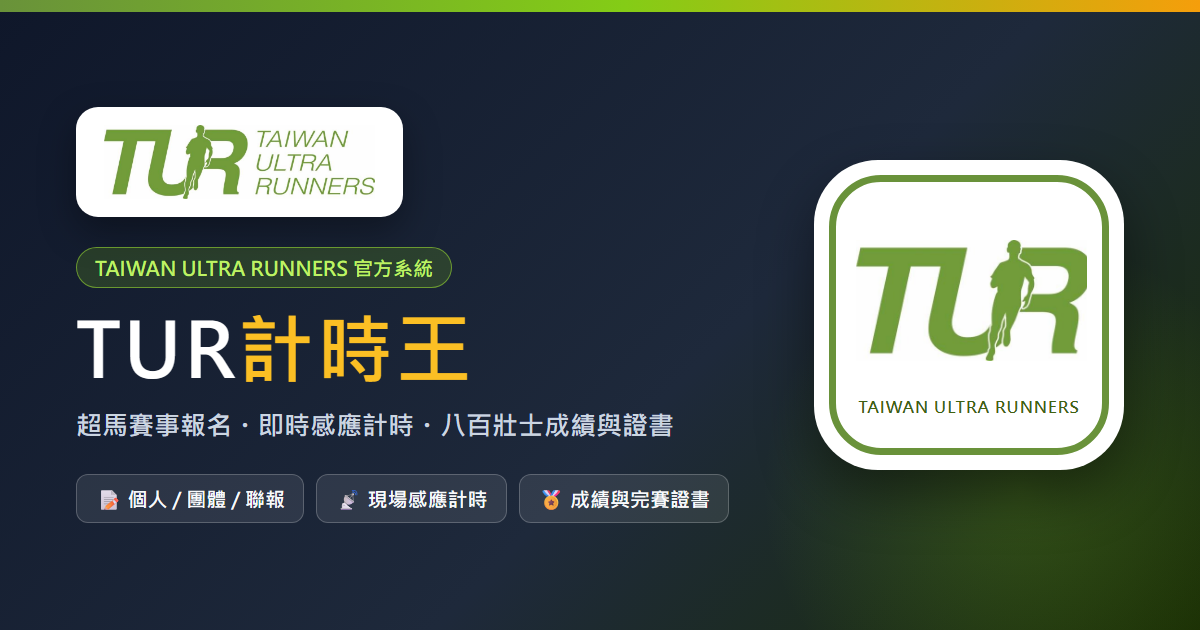
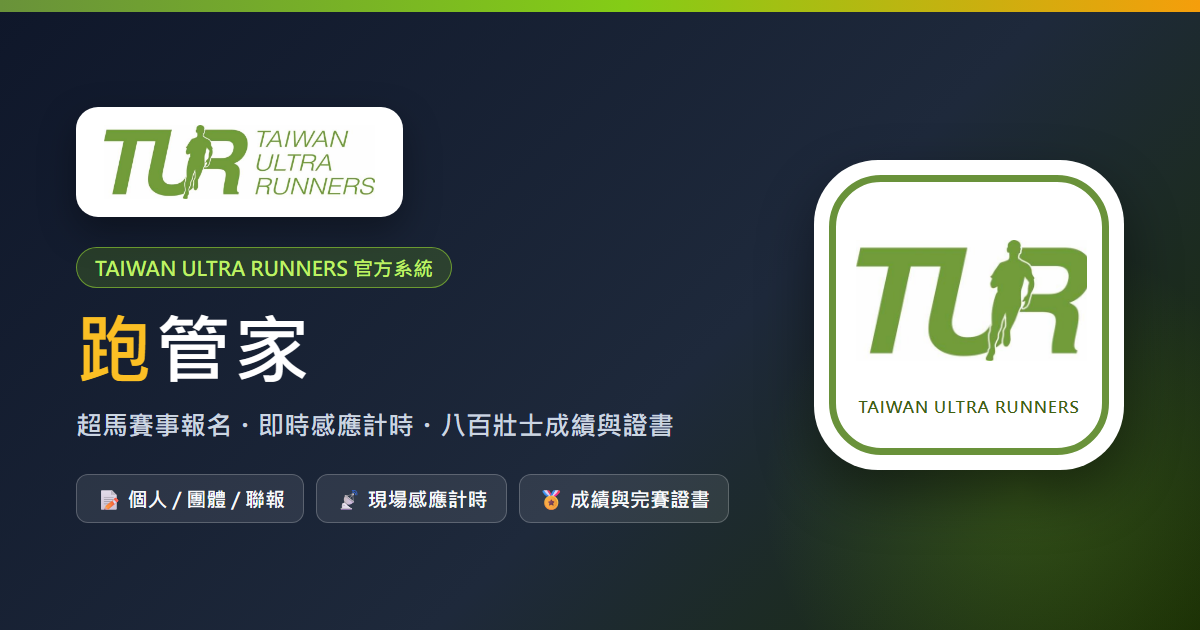
Add files via upload

Changed region(s): [[0.0617, 0.4825, 0.4008, 0.6032]]

diff --git a/public.html b/public.html
@@ -3,9 +3,9 @@
 <head>
   <meta charset="UTF-8" />
   <meta name="viewport" content="width=device-width, initial-scale=1.0" />
-  <title>TUR計時王｜公開成績查詢・八百壯士英雄榜・完賽證書</title>
+  <title>跑管家｜公開成績查詢・八百壯士英雄榜・完賽證書</title>
   <!-- PWA / 手機主畫面 App 圖示與全螢幕模式 -->
-  <link rel="manifest" href="manifest.webmanifest?v=5.21" />
+  <link rel="manifest" href="manifest.webmanifest?v=5.22" />
   <link rel="icon" type="image/png" sizes="192x192" href="assets/icon-192.png" />
   <link rel="icon" type="image/png" sizes="512x512" href="assets/icon-512.png" />
   <link rel="apple-touch-icon" sizes="180x180" href="assets/icon-180.png" />
@@ -13,12 +13,12 @@
   <meta name="mobile-web-app-capable" content="yes" />
   <meta name="apple-mobile-web-app-capable" content="yes" />
   <meta name="apple-mobile-web-app-status-bar-style" content="black-translucent" />
-  <meta name="apple-mobile-web-app-title" content="TUR計時王" />
-  <meta name="application-name" content="TUR計時王" />
+  <meta name="apple-mobile-web-app-title" content="跑管家" />
+  <meta name="application-name" content="跑管家" />
   <!-- LINE / Facebook 分享卡片預覽 -->
   <meta property="og:type" content="website" />
-  <meta property="og:site_name" content="TUR計時王" />
-  <meta property="og:title" content="TUR計時王｜公開成績查詢・八百壯士英雄榜・完賽證書" />
+  <meta property="og:site_name" content="跑管家" />
+  <meta property="og:title" content="跑管家｜公開成績查詢・八百壯士英雄榜・完賽證書" />
   <meta property="og:description" content="即時查看超馬賽道進度、歷年八百壯士累計榜，線上自製與下載官方完賽證書。" />
   <meta property="og:image" content="assets/og-cover.png" />
   <link rel="preconnect" href="https://fonts.googleapis.com" />
@@ -305,8 +305,8 @@
   </section>
 </main>
 
-<script src="js/tur-logo.js?v=5.21"></script>
-<script src="js/tur-core.js?v=5.21"></script>
+<script src="js/tur-logo.js?v=5.22"></script>
+<script src="js/tur-core.js?v=5.22"></script>
 <script>
 (() => {
   'use strict';
@@ -1312,7 +1312,7 @@
   });
 
   if ('serviceWorker' in navigator && /^https?:/i.test(location.protocol)) {
-    navigator.serviceWorker.register('./sw.js?v=5.21').catch(() => {});
+    navigator.serviceWorker.register('./sw.js?v=5.22').catch(() => {});
   }
   C.onLogoReady(() => { if (Pub.activeTab === 'cert') drawCert(); });
   loadAll();

diff --git a/index.html b/index.html
@@ -3,9 +3,9 @@
 <head>
   <meta charset="UTF-8" />
   <meta name="viewport" content="width=device-width, initial-scale=1.0, maximum-scale=1.0, user-scalable=no" />
-  <title>TUR計時王｜TUR 一體化賽事管理與計時系統</title>
+  <title>跑管家｜TUR 一體化賽事管理與計時系統</title>
   <!-- PWA / 手機主畫面 App 圖示與全螢幕模式 -->
-  <link rel="manifest" href="manifest.webmanifest?v=5.21" />
+  <link rel="manifest" href="manifest.webmanifest?v=5.22" />
   <link rel="icon" type="image/png" sizes="192x192" href="assets/icon-192.png" />
   <link rel="icon" type="image/png" sizes="512x512" href="assets/icon-512.png" />
   <link rel="apple-touch-icon" sizes="180x180" href="assets/icon-180.png" />
@@ -13,12 +13,12 @@
   <meta name="mobile-web-app-capable" content="yes" />
   <meta name="apple-mobile-web-app-capable" content="yes" />
   <meta name="apple-mobile-web-app-status-bar-style" content="black-translucent" />
-  <meta name="apple-mobile-web-app-title" content="TUR計時王" />
-  <meta name="application-name" content="TUR計時王" />
+  <meta name="apple-mobile-web-app-title" content="跑管家" />
+  <meta name="application-name" content="跑管家" />
   <!-- LINE / Facebook 分享卡片預覽 -->
   <meta property="og:type" content="website" />
-  <meta property="og:site_name" content="TUR計時王" />
-  <meta property="og:title" content="TUR計時王｜台灣超馬賽事報名與即時計時系統" />
+  <meta property="og:site_name" content="跑管家" />
+  <meta property="og:title" content="跑管家｜台灣超馬賽事報名與即時計時系統" />
   <meta property="og:description" content="線上個人／團體／聯報、現場感應計時、八百壯士即時成績與完賽證書一站搞定。" />
   <meta property="og:image" content="assets/og-cover.png" />
   <link rel="preconnect" href="https://fonts.googleapis.com" />
@@ -1050,9 +1050,9 @@
   </div>
 </div>
 
-<script src="js/tur-logo.js?v=5.21"></script>
-<script src="js/tur-core.js?v=5.21"></script>
-<script src="js/tur-zones.js?v=5.21"></script>
-<script src="js/tur-app.js?v=5.21"></script>
+<script src="js/tur-logo.js?v=5.22"></script>
+<script src="js/tur-core.js?v=5.22"></script>
+<script src="js/tur-zones.js?v=5.22"></script>
+<script src="js/tur-app.js?v=5.22"></script>
 </body>
 </html>

diff --git a/sw.js b/sw.js
@@ -1,10 +1,10 @@
 /**
- * TUR計時王 PWA Service Worker (Network-First 輕量版)
+ * 跑管家 PWA Service Worker (Network-First 輕量版)
  * - 支援 Android Chrome「安裝應用程式」與 iOS 全螢幕主畫面啟動
  * - 連網一律優先取最新程式，絕不卡舊快取；離線時自動回退本機快取
  * - 完全略過 GAS / 外部網域與非 GET 請求，確保同步與金流/報名不受干擾
  */
-const CACHE_NAME = 'tur-timing-king-v5.21';
+const CACHE_NAME = 'tur-run-manager-v5.22';
 const CORE_ASSETS = [
   './',
   './index.html',
@@ -29,7 +29,7 @@ self.addEventListener('activate', (event) => {
   event.waitUntil(
     caches.keys()
       .then((keys) => Promise.all(
-        keys.filter((k) => k.startsWith('tur-timing-king-') && k !== CACHE_NAME)
+        keys.filter((k) => (k.startsWith('tur-run-manager-') || k.startsWith('tur-timing-king-')) && k !== CACHE_NAME)
           .map((k) => caches.delete(k))
       ))
       .then(() => self.clients.claim())

diff --git a/js/tur-app.js b/js/tur-app.js
@@ -2894,7 +2894,7 @@
 
     // 註冊 PWA Service Worker（僅在 http/https 下啟用，不干擾本機 file:// 開啟）
     if ('serviceWorker' in navigator && /^https?:/i.test(location.protocol)) {
-      navigator.serviceWorker.register('./sw.js?v=5.21').catch(() => {});
+      navigator.serviceWorker.register('./sw.js?v=5.22').catch(() => {});
     }
 
     // 連網且已綁定 GAS 時，背景自動同步雲端最新 Google 試算表資料（不影響開頁秒開速度）
